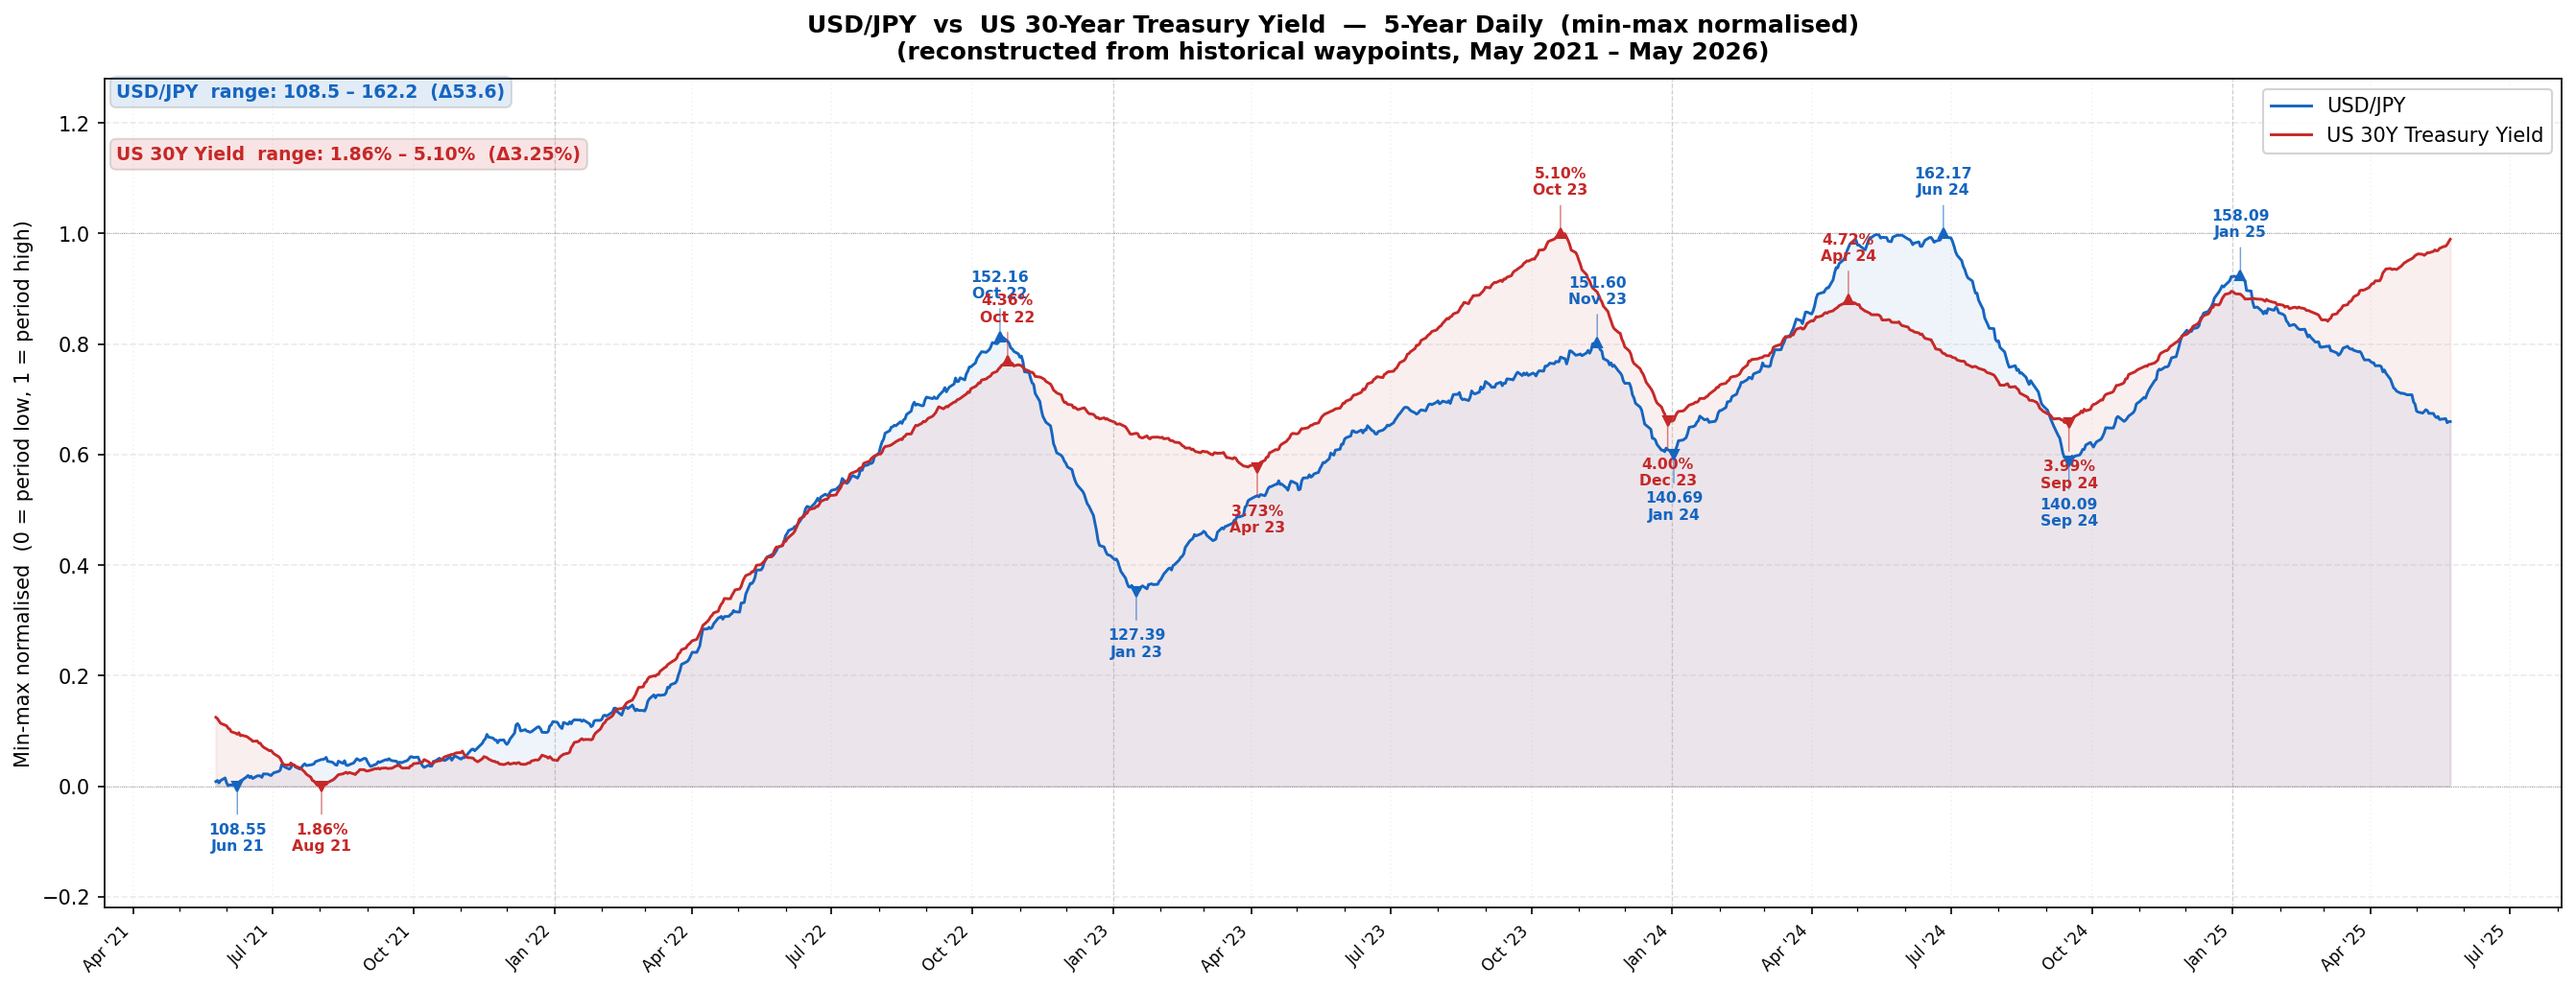
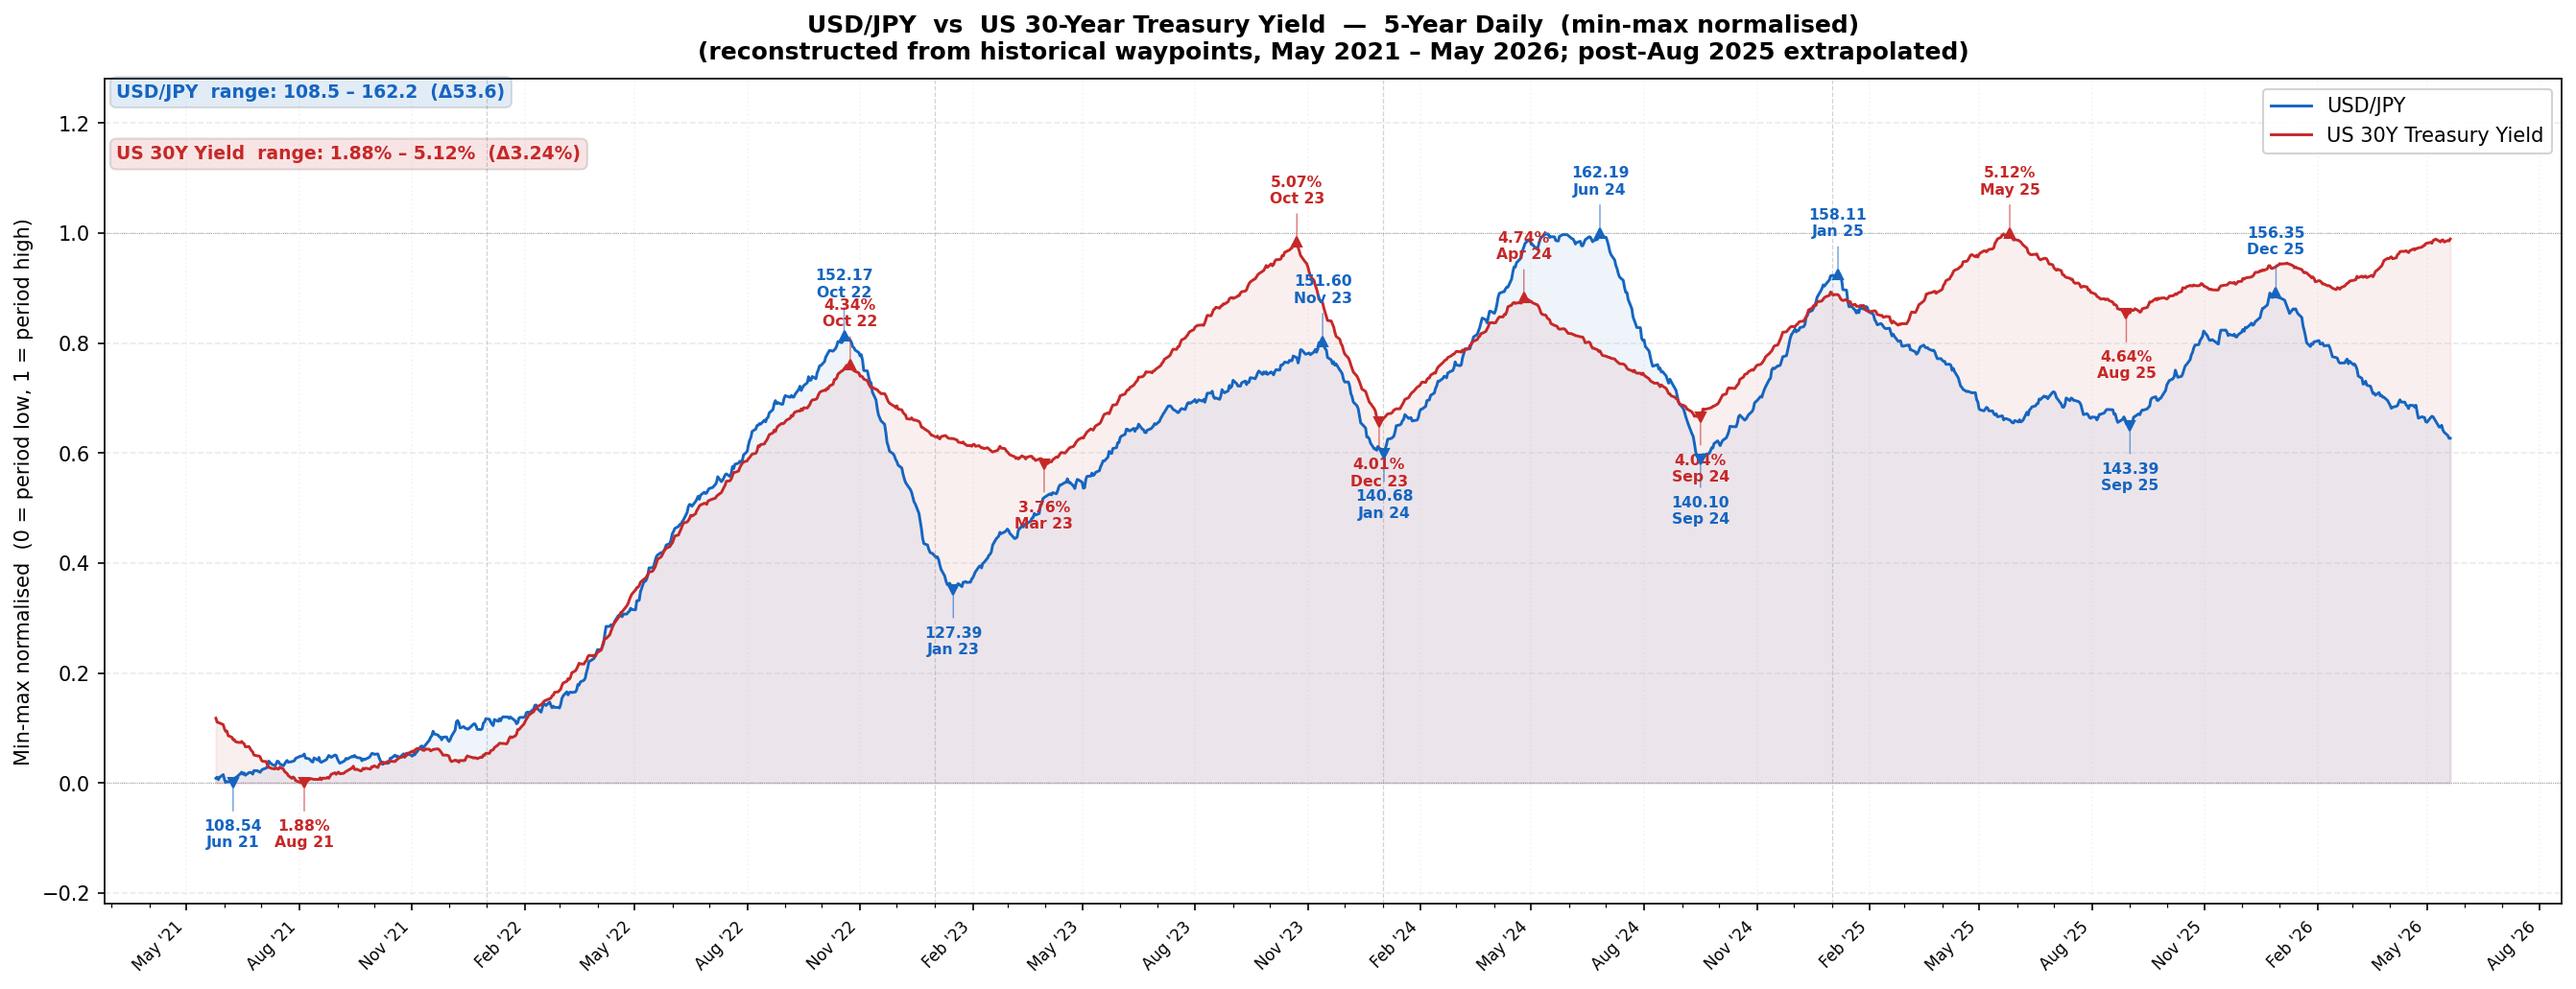
Extend data series to May 20, 2026
Add waypoints through May 2026 for both USD/JPY and US 30Y yield;
data post-Aug 2025 is extrapolated from known trends.

https://claude.ai/code/session_01CnS2CDdJjVXPL4wPjqGnqU

diff --git a/fetch_and_plot.py b/fetch_and_plot.py
@@ -33,6 +33,13 @@ usdjpy_waypoints = [
     ("2025-01-01", 157.0),
     ("2025-04-01", 149.0),
     ("2025-05-25", 143.5),
+    ("2025-07-01", 146.0),
+    ("2025-09-01", 142.5),
+    ("2025-11-01", 152.0),
+    ("2026-01-01", 156.0),
+    ("2026-02-15", 151.0),
+    ("2026-04-01", 145.0),
+    ("2026-05-20", 143.0),
 ]
 
 # US 30-Year Bond Yield (%)
@@ -55,6 +62,13 @@ ty30_waypoints = [
     ("2025-03-01",  4.60),
     ("2025-04-11",  4.87),
     ("2025-05-25",  5.09),
+    ("2025-07-01",  4.88),
+    ("2025-09-01",  4.70),
+    ("2025-11-01",  4.82),
+    ("2026-01-01",  4.92),
+    ("2026-02-15",  4.75),
+    ("2026-04-01",  4.95),
+    ("2026-05-20",  5.05),
 ]
 
 def build_series(waypoints, freq="B"):
@@ -200,7 +214,7 @@ ax.text(0.005, 0.920,
 
 ax.set_title(
     "USD/JPY  vs  US 30-Year Treasury Yield  —  5-Year Daily  (min-max normalised)\n"
-    "(reconstructed from historical waypoints, May 2021 – May 2026)",
+    "(reconstructed from historical waypoints, May 2021 – May 2026; post-Aug 2025 extrapolated)",
     fontsize=12, fontweight="bold", pad=10
 )
 ax.legend(loc="upper right", fontsize=10, framealpha=0.85)
